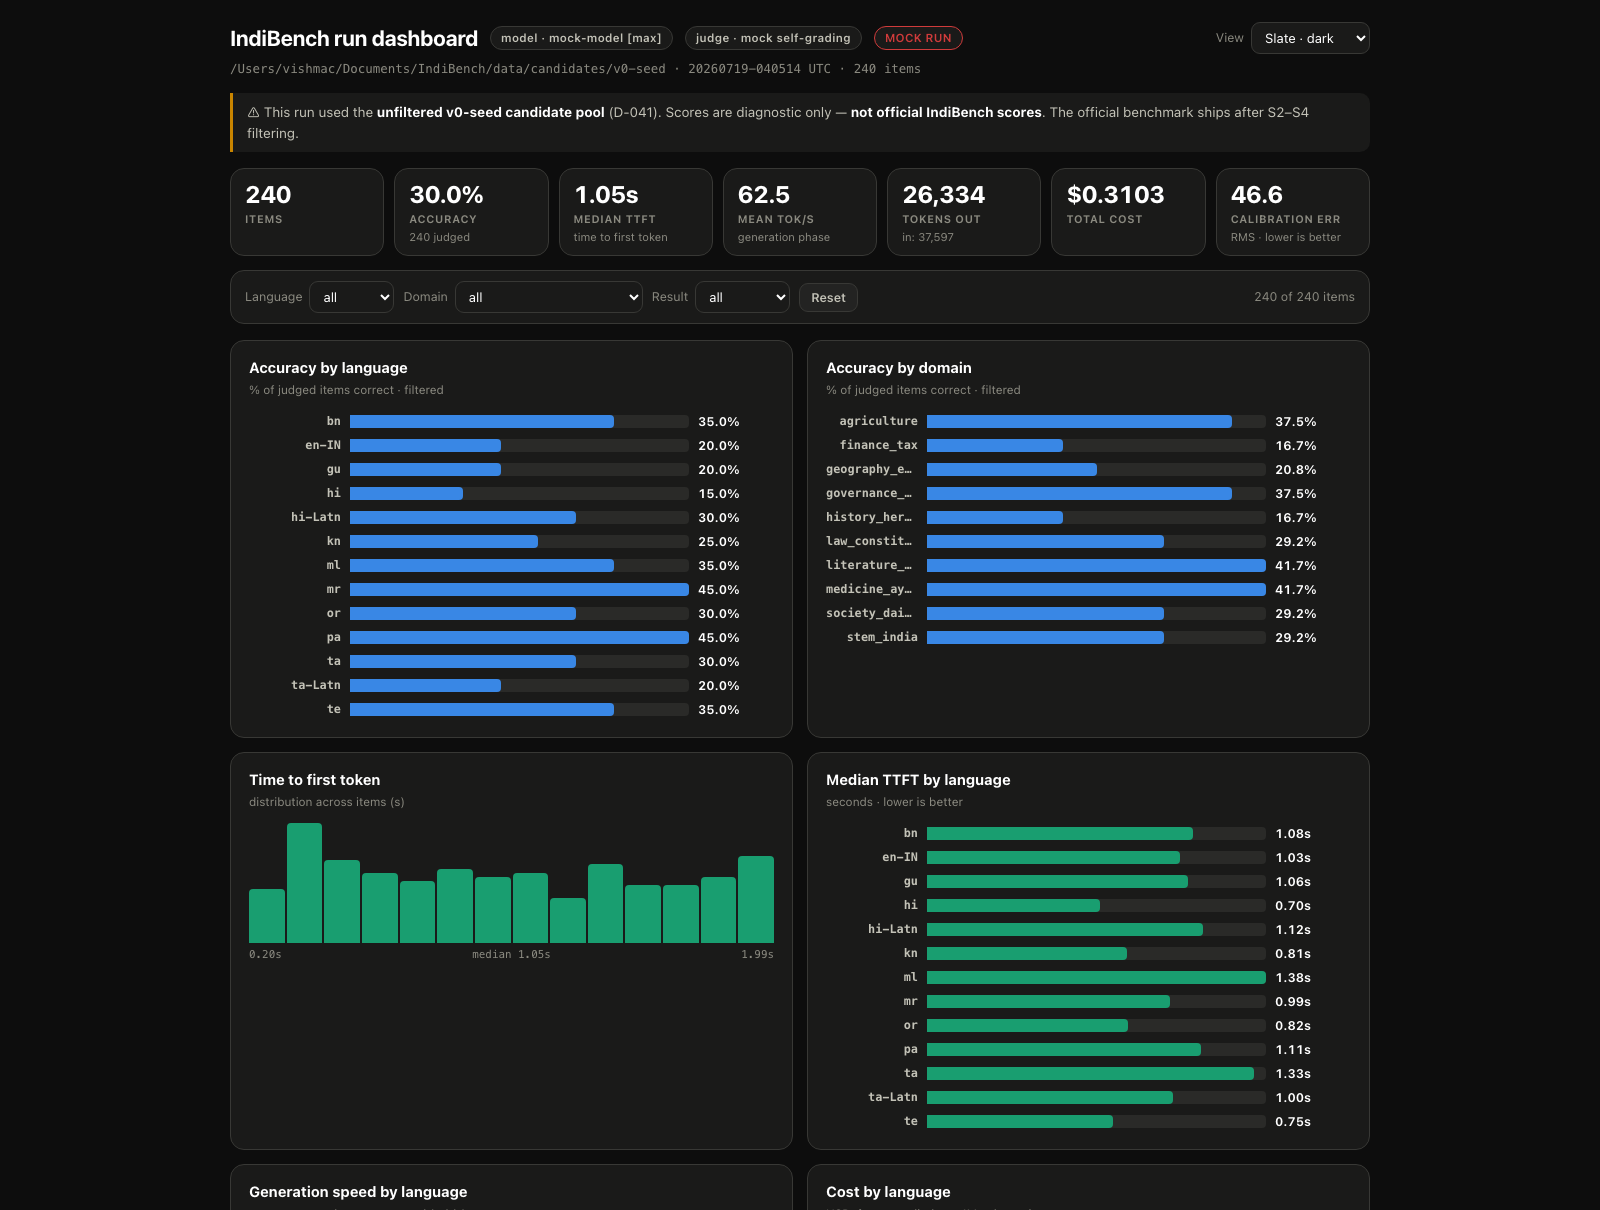
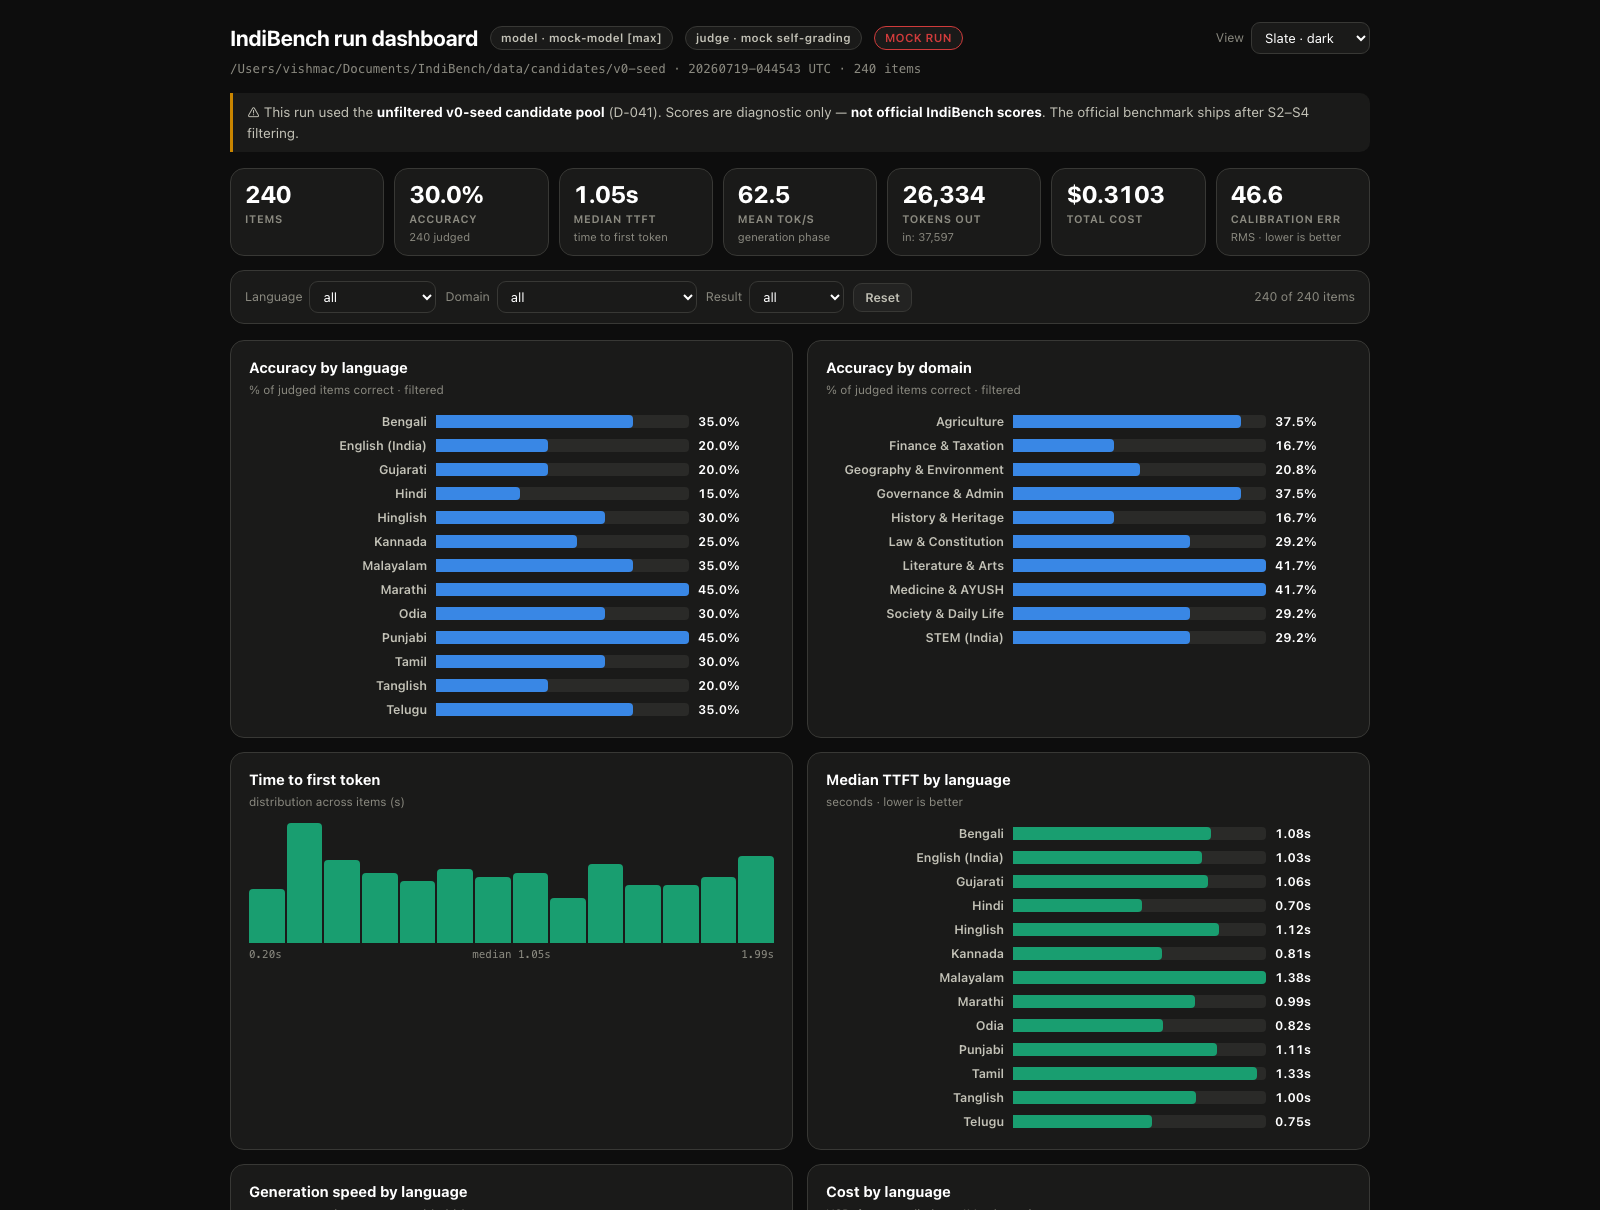
Dashboard: proper display names for languages and domains
The run dashboard showed internal slugs (en-IN, hi-Latn, stem_india,
medicine_ayush…). It now presents proper names — Hindi, English (India),
Hinglish, Tanglish; Medicine & AYUSH, STEM (India), Governance & Admin,
Geography & Environment, etc. — in the filter dropdowns, every chart's bar
labels, and the per-item table.

- schema.py: LANGUAGE_NAMES / DOMAIN_NAMES maps (single source of truth,
  reusable by other presentation surfaces)
- run_benchmark.py: maps embedded in the dashboard payload; JS renders them
  in dropdowns (value stays the slug so filtering is unchanged), chart labels,
  and table cells; language/domain columns sort by display name; widened the
  bar-label column and switched it to sans so full names fit
- Canonical slugs are UNCHANGED in records / results.csv / summary.* — this
  is presentation only, so the data stays machine-readable
- Test: proper names appear in the HTML, slugs persist in CSV, and every
  Language/Domain enum value has a display name (future additions can't ship
  a raw slug); 25 tests passing, ruff clean
- Regenerated docs/assets/dashboard.png (README screenshot) with proper names

diff --git a/scripts/run_benchmark.py b/scripts/run_benchmark.py
@@ -327,10 +327,14 @@ def _slim(records: list[dict]) -> list[dict]:
 
 def build_overview(records: list[dict], summary: dict, meta: dict) -> str:
     """Interactive single-file dashboard. All data embedded; no external requests."""
+    from indibench.schema import DOMAIN_NAMES, LANGUAGE_NAMES
     # <-escape EVERY '<': model answers are untrusted, and '<!--<script'
-    # inside script data would otherwise swallow the closing </script> tag
-    payload = json.dumps({"meta": meta, "records": _slim(records)},
-                         ensure_ascii=False).replace("<", "\\u003c")
+    # inside script data would otherwise swallow the closing </script> tag.
+    # names: canonical slugs stay in the records/CSV; humans see proper names.
+    payload = json.dumps(
+        {"meta": meta, "records": _slim(records),
+         "names": {"lang": LANGUAGE_NAMES, "dom": DOMAIN_NAMES}},
+        ensure_ascii=False).replace("<", "\\u003c")
     return _DASHBOARD.replace("__PAYLOAD__", payload)
 
 
@@ -409,7 +413,7 @@ button.reset:hover{color:var(--ink)}
 .empty{color:var(--ink3);font-size:.82rem;padding:14px 0}
 
 .hrow{display:flex;align-items:center;gap:9px;margin:4px 0;min-height:20px}
-.hrow .hl{flex:0 0 92px;text-align:right;color:var(--ink2);font:600 .74rem var(--mono);
+.hrow .hl{flex:0 0 178px;text-align:right;color:var(--ink2);font:600 .78rem var(--sans);
   overflow:hidden;text-overflow:ellipsis;white-space:nowrap}
 .hrow .htrack{flex:1;height:13px;background:var(--track);border-radius:4px;position:relative}
 .hrow .hfill{position:absolute;left:0;top:0;bottom:0;border-radius:0 4px 4px 0;min-width:2px}
@@ -561,13 +565,18 @@ function bindTip(el, text){
   el.addEventListener("mouseleave", () => tip.style.opacity = 0);
 }
 
+/* ---------- display names (slugs stay canonical in the data/CSV) ---------- */
+const NAMES = DATA.names || {lang:{}, dom:{}};
+const lname = k => (NAMES.lang && NAMES.lang[k]) || k;
+const dname = k => (NAMES.dom && NAMES.dom[k]) || k;
+
 /* ---------- filters ---------- */
-function fillSelect(sel, values){
+function fillSelect(sel, values, namer){
   sel.innerHTML = "<option value=''>all</option>" +
-    values.map(v=>`<option>${v}</option>`).join("");
+    values.map(v=>`<option value="${v}">${namer(v)}</option>`).join("");
 }
-fillSelect($("f-lang"), [...new Set(R.map(r=>r.lang))].sort());
-fillSelect($("f-dom"),  [...new Set(R.map(r=>r.dom))].sort());
+fillSelect($("f-lang"), [...new Set(R.map(r=>r.lang))].sort((a,b)=>lname(a)<lname(b)?-1:1), lname);
+fillSelect($("f-dom"),  [...new Set(R.map(r=>r.dom))].sort((a,b)=>dname(a)<dname(b)?-1:1), dname);
 ["f-lang","f-dom","f-res"].forEach(id => $(id).addEventListener("change", render));
 $("f-q").addEventListener("input", () => renderTable(current()));
 $("f-reset").addEventListener("click", () => { $("f-lang").value=""; $("f-dom").value="";
@@ -622,15 +631,15 @@ function hbars(el, entries, cssvar, format, tipfmt){
     el.appendChild(row);
   }
 }
-function accEntries(rows, key){
+function accEntries(rows, key, namer){
   return groupBy(rows, key).map(([k, g]) => {
     const judged = g.filter(r=>r.ok!=null);
-    return [k, judged.length ? 100*judged.filter(r=>r.ok).length/judged.length : null, judged.length];
+    return [namer(k), judged.length ? 100*judged.filter(r=>r.ok).length/judged.length : null, judged.length];
   });
 }
-function statEntries(rows, key, fn){
+function statEntries(rows, key, fn, namer){
   return groupBy(rows, key).map(([k, g]) => { const good=g.filter(r=>!r.err);
-    return [k, fn(good), good.length]; });
+    return [namer(k), fn(good), good.length]; });
 }
 
 /* ---------- TTFT histogram ---------- */
@@ -655,8 +664,8 @@ function renderHist(rows){
 /* ---------- table ---------- */
 const COLS = [
   ["id","id",r=>`<td style="font-family:var(--mono);font-size:.72rem">${r.id}</td>`],
-  ["lang","lang",r=>`<td>${r.lang}</td>`],
-  ["dom","domain",r=>`<td>${r.dom}</td>`],
+  ["lang","language",r=>`<td>${lname(r.lang)}</td>`],
+  ["dom","domain",r=>`<td>${dname(r.dom)}</td>`],
   ["ok","result",r=>`<td>${r.err?'<span class="ko">⚠ error</span>':r.ok===true?'<span class="ok">✓ correct</span>':r.ok===false?'<span class="ko">✗ wrong</span>':'<span class="na">—</span>'}</td>`],
   ["conf","conf %",r=>`<td class="num">${r.conf==null?"—":r.conf}</td>`],
   ["ttft","ttft s",r=>`<td class="num">${r.ttft==null?"—":r.ttft.toFixed(2)}</td>`],
@@ -670,7 +679,9 @@ function renderTable(rows){
   const q = $("f-q").value.trim().toLowerCase();
   let view = q ? rows.filter(r => r.id.toLowerCase().includes(q) ||
                                   (r.ans||"").toLowerCase().includes(q)) : rows;
-  view = [...view].sort((a,b)=>{ const x=a[sortKey], y=b[sortKey];
+  const skey = r => sortKey==="lang" ? lname(r.lang)
+                  : sortKey==="dom"  ? dname(r.dom) : r[sortKey];
+  view = [...view].sort((a,b)=>{ const x=skey(a), y=skey(b);
     if (x==null) return 1; if (y==null) return -1;
     return (x<y?-1:x>y?1:0)*sortDir; });
   const head = $("tbl").tHead;
@@ -698,16 +709,16 @@ function render(){
   const rows = current();
   $("f-count").textContent = rows.length + " of " + R.length + " items";
   renderKpis(rows);
-  hbars($("ch-acc-lang"), accEntries(rows,"lang"), "--s-blue", fmt.pct,
+  hbars($("ch-acc-lang"), accEntries(rows,"lang",lname), "--s-blue", fmt.pct,
         (l,v,n)=>v==null?`${l} · not judged`:`${l} · ${fmt.pct(v)} of ${n} judged`);
-  hbars($("ch-acc-dom"), accEntries(rows,"dom"), "--s-blue", fmt.pct,
+  hbars($("ch-acc-dom"), accEntries(rows,"dom",dname), "--s-blue", fmt.pct,
         (l,v,n)=>v==null?`${l} · not judged`:`${l} · ${fmt.pct(v)} of ${n} judged`);
-  hbars($("ch-ttft-lang"), statEntries(rows,"lang", g=>median(g.map(r=>r.ttft).filter(v=>v!=null))),
+  hbars($("ch-ttft-lang"), statEntries(rows,"lang", g=>median(g.map(r=>r.ttft).filter(v=>v!=null)), lname),
         "--s-aqua", fmt.s, (l,v,n)=>`${l} · median ${fmt.s(v)} · ${n} items`);
-  hbars($("ch-tps-lang"), statEntries(rows,"lang", g=>mean(g.map(r=>r.tps).filter(v=>v!=null))),
+  hbars($("ch-tps-lang"), statEntries(rows,"lang", g=>mean(g.map(r=>r.tps).filter(v=>v!=null)), lname),
         "--s-blue", fmt.tps, (l,v,n)=>`${l} · ${fmt.tps(v)} tok/s mean · ${n} items`);
   hbars($("ch-cost-lang"), statEntries(rows,"lang", g=>{const c=g.map(r=>r.cost).filter(v=>v!=null);
-        return c.length?c.reduce((a,b)=>a+b,0):null;}),
+        return c.length?c.reduce((a,b)=>a+b,0):null;}, lname),
         "--s-yellow", fmt.usd, (l,v,n)=>`${l} · ${fmt.usd(v)} total · ${n} items`);
   renderHist(rows);
   renderTable(rows);

diff --git a/tests/test_benchmark_runner.py b/tests/test_benchmark_runner.py
@@ -171,6 +171,35 @@ def test_effort_recorded_and_pinned(tmp_path):
     assert any(p.name.startswith("mock-model_low_") for p in tmp_path.iterdir())
 
 
+def test_display_names_presentation_only(tmp_path):
+    """Dashboard shows proper language/domain names; CSV/records keep slugs."""
+    from indibench.schema import DOMAIN_NAMES, LANGUAGE_NAMES, Domain, Language
+    # every enum value must have a display name (future additions can't slip through)
+    assert {m.value for m in Language} <= set(LANGUAGE_NAMES)
+    assert {m.value for m in Domain} <= set(DOMAIN_NAMES)
+
+    proc = subprocess.run(
+        [sys.executable, str(SCRIPT), "--mock", "--limit", "40",
+         "--out", str(tmp_path), "--run-name", "names"],
+        capture_output=True, text=True, timeout=180)
+    assert proc.returncode == 0, proc.stderr
+    run_dir = tmp_path / "names"
+
+    html = (run_dir / "overview.html").read_text(encoding="utf-8")
+    assert '"names"' in html                       # name map embedded
+    assert "Bengali" in html and "English (India)" in html   # first 40 items = bn + en-IN
+    assert "Medicine & AYUSH" in html and "Agriculture" in html
+    # internal slugs must NOT be the presented labels in dropdowns/charts:
+    # the raw record still carries them, but the human-facing map replaces them
+
+    # results.csv stays canonical (slugs), never display names
+    rows = list(csv.DictReader((run_dir / "results.csv").open(encoding="utf-8")))
+    langs = {r["language"] for r in rows}
+    assert "bn" in langs and "Bengali" not in langs
+    doms = {r["domain"] for r in rows}
+    assert "medicine_ayush" in doms and "Medicine & AYUSH" not in doms
+
+
 def test_zero_item_run_does_not_crash(tmp_path):
     proc = subprocess.run(
         [sys.executable, str(SCRIPT), "--mock", "--limit", "0",

diff --git a/src/indibench/schema.py b/src/indibench/schema.py
@@ -50,6 +50,28 @@ class Domain(str, Enum):
     SOCIETY_DAILY_LIFE = "society_daily_life"
 
 
+# Human-readable display names for presentation surfaces (dashboards, reports).
+# The enum VALUES stay canonical in data/CSV/JSON; these are for humans only.
+LANGUAGE_NAMES: dict[str, str] = {
+    "hi": "Hindi", "bn": "Bengali", "ta": "Tamil", "te": "Telugu",
+    "mr": "Marathi", "kn": "Kannada", "ml": "Malayalam", "gu": "Gujarati",
+    "pa": "Punjabi", "or": "Odia", "en-IN": "English (India)",
+    "hi-Latn": "Hinglish", "ta-Latn": "Tanglish",
+}
+DOMAIN_NAMES: dict[str, str] = {
+    "law_constitution": "Law & Constitution",
+    "governance_admin": "Governance & Admin",
+    "stem_india": "STEM (India)",
+    "medicine_ayush": "Medicine & AYUSH",
+    "finance_tax": "Finance & Taxation",
+    "agriculture": "Agriculture",
+    "history_heritage": "History & Heritage",
+    "literature_arts": "Literature & Arts",
+    "geography_environment": "Geography & Environment",
+    "society_daily_life": "Society & Daily Life",
+}
+
+
 class Tag(str, Enum):
     """Cross-cutting reportable slices (D-027 historical, D-038 safety)."""
 